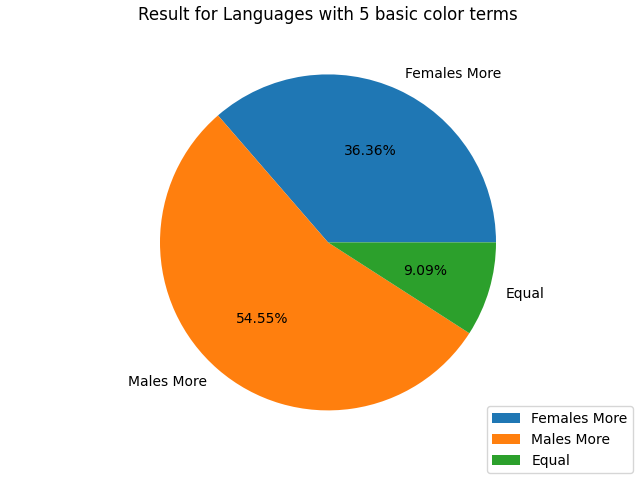
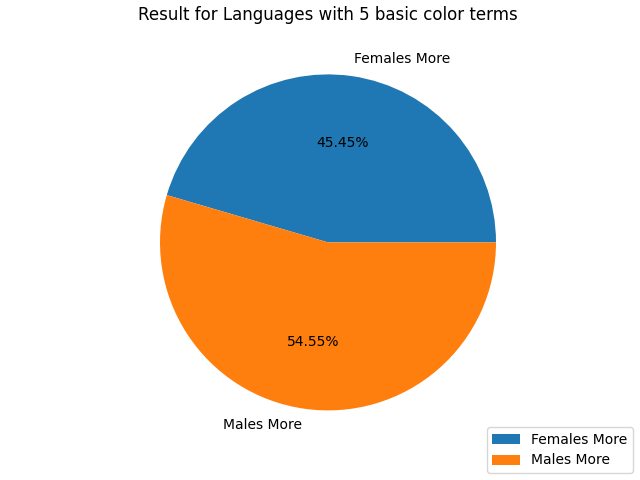
Readjust trials back to 500

diff --git a/COG260_project_faisal_zelong.py b/COG260_project_faisal_zelong.py
@@ -482,7 +482,7 @@ if __name__ == "__main__":
         male_indices, female_indices = get_male_and_female_indices()
 
         # 4. Run trials and count how many "F", "M", and "E" we get from all trials
-        male_more_color_terms_than_female, female_more_color_terms_than_male, equal_color_terms = run_trials(5)
+        male_more_color_terms_than_female, female_more_color_terms_than_male, equal_color_terms = run_trials(500)
 
         # 5. Assign the language "F", "M", or "E" based on which letter has the highest count
         lang_index_is_female_more[language_index] = choose_m_f_e_for_lang_index()
